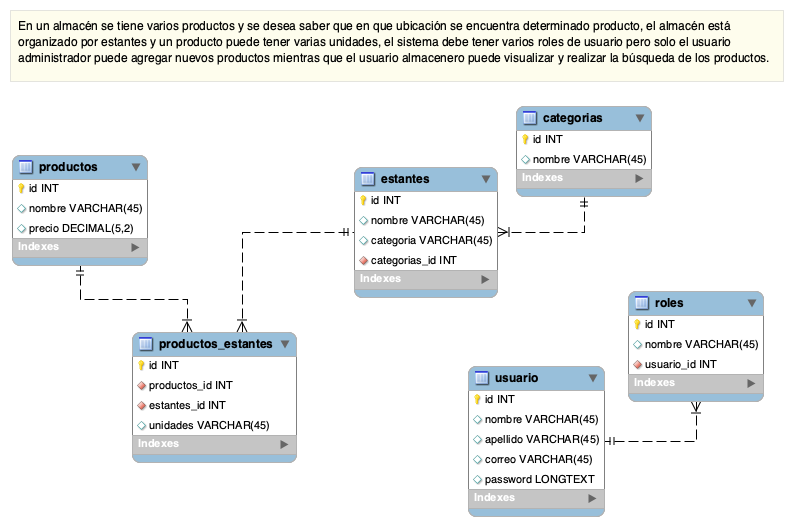
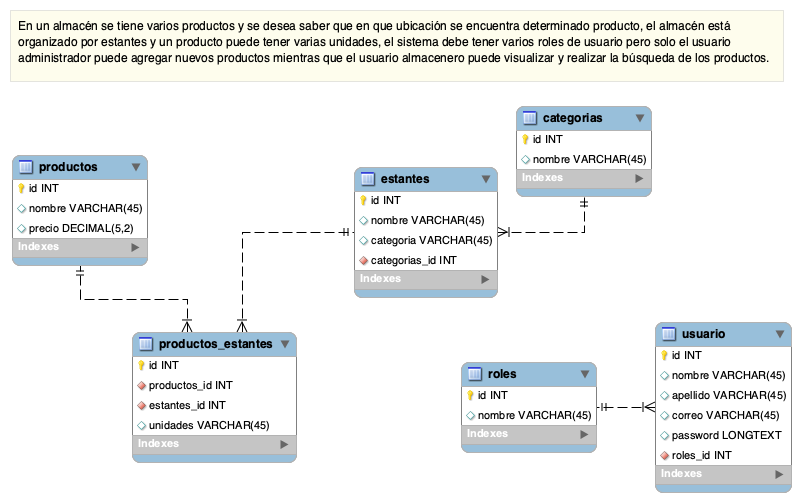
finalizacion del modelado

diff --git a/src/config/relaciones.js b/src/config/relaciones.js
@@ -2,15 +2,19 @@ import categoria_model from "../models/categoria";
 import estante_model from "../models/estante";
 import producto_model from "../models/producto";
 import producto_estante_model from "../models/productoEstante";
+import rol_model from "../models/rol"
+import usuario_model from "../models/usuario"
 
 export const Categoria = categoria_model();
 export const Estante = estante_model();
 export const Producto = producto_model();
 export const ProductoEstante = producto_estante_model();
+export const Rol = rol_model();
+export const Usuario=usuario_model();
 
 Categoria.hasMany(Estante,{
     foreignKey:{
-        name:"categoria_id",
+        name:"categorias_id",
         allowNull:false,
     },
 });
@@ -38,3 +42,12 @@ ProductoEstante.belongsTo(Producto,{
     foreignKey:"productos_id"
 })
 
+Rol.hasMany(Usuario,{
+    foreignKey:{
+        name:"roles_id",
+        allowNull:false
+    }
+})
+Usuario.belongsTo(Rol,{
+    foreignKey:"roles_id",
+})

diff --git a/src/models/usuario.js b/src/models/usuario.js
@@ -1,0 +1,32 @@
+import { DataTypes } from "sequelize";
+import { conexion } from "../config/sequelize";
+
+export default ()=>
+conexion.define("usuario",{
+    usuarioId:{
+        field:'id',
+        type: DataTypes.INTEGER,
+    },
+    usuarioNombre:{
+        field:'nombre',
+        type: DataTypes.STRING(25),
+    },
+    usuarioApellido:{
+        field:'apellido',
+        type: DataTypes.STRING(25),
+    },
+    usuarioCorreo:{
+        field:'correo',
+        type: DataTypes.STRING(25),
+        validate:{
+            isEmail:true,
+        }
+    },
+    usuarioPassword:{
+        field:'password',
+        type: DataTypes.TEXT,
+    },
+},{
+    tableName:"usuarios",
+    timestamps:false,
+})

diff --git a/src/models/rol.js b/src/models/rol.js
@@ -1,0 +1,21 @@
+import { DataTypes } from "sequelize";
+import { conexion } from "../config/sequelize";
+
+export default ()=>
+conexion.define("rol",{
+    rolId:{
+        field:"id",
+        primaryKey:true,
+        autoIncrement:true,
+        allowNull:false,
+        unique:true,
+        type:DataTypes.INTEGER
+    },
+    rolNombre:{
+        field:"nombre",
+        type:DataTypes.STRING(25),
+    },
+},{
+    tableName:"roles",
+    timestamps:false,
+})

diff --git a/src/controllers/producto.js b/src/controllers/producto.js
@@ -1,0 +1,11 @@
+import { Producto } from "../config/relaciones";
+
+//CRUD
+export const crearProducto=async (req,res)=>{
+    const nuevoProducto = await Producto.create(req.body);
+    res.status(201).json({
+        success:true,
+        content:nuevoProducto,
+        message:"producto creado exitosamente",
+    })
+}
